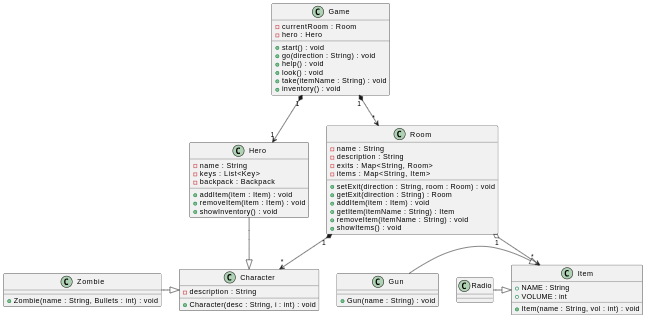
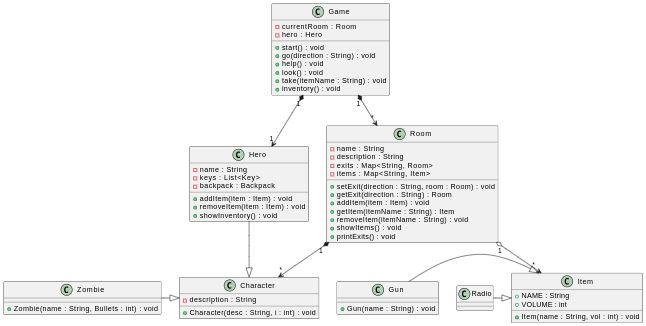
second to last commit

diff --git a/README.md b/README.md
@@ -112,6 +112,7 @@ Le constructeur Room(String, String) initialise une nouvelle salle avec un nom e
 - getItem() : Retourne un objet par son nom.
 - removeItem() : Supprime un objet de la salle.
 - showItems() : Affiche tous les objets présents dans la salle.
+- printExits() : Affiche toutes les pièces dans lesquelles le joueur peut se rendre.
 
 ### Hero
 La classe Hero représente le personnage contrôlé par le joueur. Elle gère son nom et son inventaire via un sac à dos (Backpack).
@@ -168,3 +169,6 @@ Dans la version actuelle du jeu, il n'y a que trois objets : le radio, l'arme à
 
 L'intégration d'un chronomètre n'a pas été jugée entièrement nécessaire, mais cela aurait pu être intéressant de l'introduire pour montrer combien de temps le joueur a avant de devoir quitter le bâtiment après avoir appelé à l'aide. Cela aurait créé un sentiment de suspense et donné au joueur une dernière chance de fouiller le bâtiment avant de partir.
 
+## Les trous
+
+Lorsque nous concevions le jeu, nous avions l'idée d'inclure des trous dans certaines pièces comme obstacles. Bien que nous n'ayons jamais eu le temps de mettre en œuvre cette fonctionnalité, notre plan initial était de la créer comme une sous-classe de la classe Room, où la présence d'un trou aurait un impact sur la pièce située en dessous.
